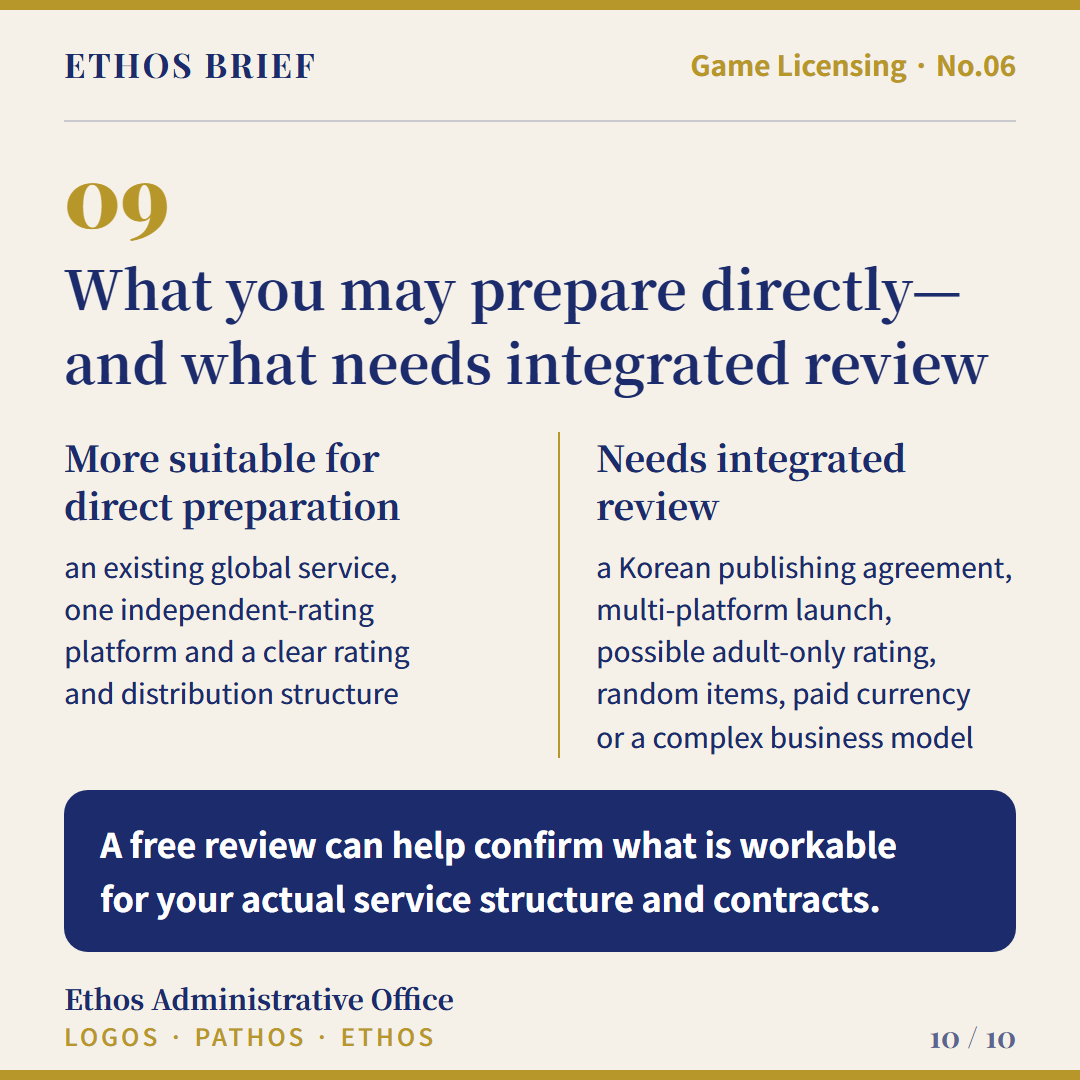
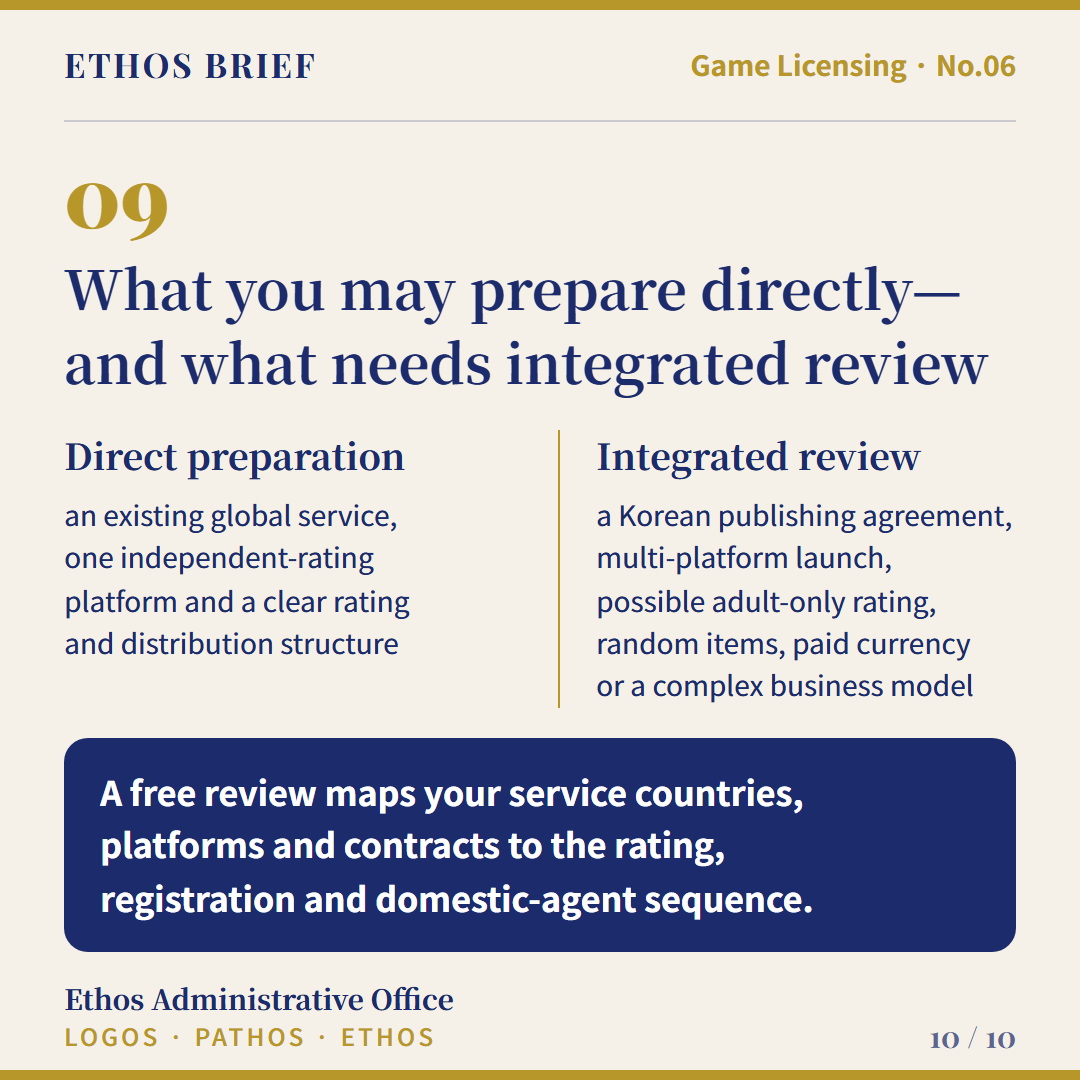
feat: add advisory marketing review workflow

Changed region(s): [[0.0611, 0.3972, 0.9472, 0.8556]]

diff --git a/content/GAME-OVERSEAS-06/en/card_10.html b/content/GAME-OVERSEAS-06/en/card_10.html
@@ -11,8 +11,8 @@
   <div class="hl" data-frame="line"></div>
   <div class="body">
     <div class="z-title" data-zone="title"><div class="kicker-num" data-decor>09</div><h2 class="h2" data-role="headline">What you may prepare directly—and what needs integrated review</h2></div>
-    <div class="z-main" data-zone="main"><div class="split"><div class="split-col"><div class="split-title" data-role="subheading">More suitable for direct preparation</div><div class="split-copy">an existing global service, one independent-rating platform and a clear rating and distribution structure</div></div><div class="split-col"><div class="split-title" data-role="subheading">Needs integrated review</div><div class="split-copy">a Korean publishing agreement, multi-platform launch, possible adult-only rating, random items, paid currency or a complex business model</div></div></div></div>
-    <div class="z-take" data-zone="take"><div class="take" data-role="takeaway">A free review can help confirm what is workable for your actual service structure and contracts.</div></div>
+    <div class="z-main" data-zone="main"><div class="split"><div class="split-col"><div class="split-title" data-role="subheading">Direct preparation</div><div class="split-copy">an existing global service, one independent-rating platform and a clear rating and distribution structure</div></div><div class="split-col"><div class="split-title" data-role="subheading">Integrated review</div><div class="split-copy">a Korean publishing agreement, multi-platform launch, possible adult-only rating, random items, paid currency or a complex business model</div></div></div></div>
+    <div class="z-take" data-zone="take"><div class="take" data-role="takeaway">A free review maps your service countries, platforms and contracts to the rating, registration and domestic-agent sequence.</div></div>
   </div>
   
   <div class="ftr"><div class="org" data-frame="org">Ethos Administrative Office</div><div class="tagl" data-frame="tagline">LOGOS · PATHOS · ETHOS</div><div class="pg" data-frame="page">10 / 10</div></div>

diff --git a/content/GAME-OVERSEAS-06/ko/card_10.html b/content/GAME-OVERSEAS-06/ko/card_10.html
@@ -12,7 +12,7 @@
   <div class="body">
     <div class="z-title" data-zone="title"><div class="kicker-num" data-decor>09</div><h2 class="h2" data-role="headline">직접 준비할 수 있는 경우, 함께 검토해야 하는 경우</h2></div>
     <div class="z-main" data-zone="main"><div class="split"><div class="split-col"><div class="split-title" data-role="subheading">직접 준비 가능성이 높은 경우</div><div class="split-copy">기존 글로벌 서비스, 하나의 자체등급분류 플랫폼, 명확한 등급·유통 구조</div></div><div class="split-col"><div class="split-title" data-role="subheading">종합 검토가 필요한 경우</div><div class="split-copy">국내 퍼블리셔 계약, 여러 플랫폼 동시 출시, 청소년이용불가 가능성, 확률형 아이템·유료재화·복잡한 BM</div></div></div></div>
-    <div class="z-take" data-zone="take"><div class="take" data-role="takeaway">무료 검토를 통해 실제 서비스 구조와 계약관계에서 가능한 방식을 확인할 수 있습니다.</div></div>
+    <div class="z-take" data-zone="take"><div class="take" data-role="takeaway">무료 검토에서는 서비스 국가·플랫폼·계약 구조를 바탕으로 등급분류·배급업 등록·국내대리인 검토 순서를 확인합니다.</div></div>
   </div>
   
   <div class="ftr"><div class="org" data-frame="org">에토스 행정사사무소</div><div class="tagl" data-frame="tagline">LOGOS · PATHOS · ETHOS</div><div class="pg" data-frame="page">10 / 10</div></div>

diff --git a/content/GAME-OVERSEAS-06/ko/card_01.html b/content/GAME-OVERSEAS-06/ko/card_01.html
@@ -11,7 +11,7 @@
   <div class="hl" data-frame="line"></div>
   <div class="body">
     <div class="z-title" data-zone="title"><span class="chip">해외 게임 한국 출시</span></div>
-    <div class="z-main" data-zone="main"><div><p class="cover-title" data-role="headline">서버는 싱가포르, 한국 법인은 없음. 한국 출시 절차는 누가 밟을까요?</p><p class="cover-lead">게임의 국적보다 누가 한국에서 배급하고 이용자에게 제공하는지가 중요합니다.</p></div></div>
+    <div class="z-main" data-zone="main"><div><p class="cover-title" data-role="headline">서버는 싱가포르, 한국 법인은 없습니다. 한국 출시는 누가 책임질까요?</p><p class="cover-lead">게임의 국적보다 누가 한국에서 배급하고 이용자에게 제공하는지가 중요합니다.</p></div></div>
     <div class="z-take" data-zone="take"><div class="take" data-role="takeaway">먼저 서비스 구조를 정해야 절차의 주체도 보입니다.</div></div>
   </div>
   <div class="page-turn" data-role="note">다음 · 서버만 보고 결론 내릴 수 없는 이유</div>

diff --git a/content/GAME-OVERSEAS-06/en/card_01.html b/content/GAME-OVERSEAS-06/en/card_01.html
@@ -11,7 +11,7 @@
   <div class="hl" data-frame="line"></div>
   <div class="body">
     <div class="z-title" data-zone="title"><span class="chip">Overseas Game Launch</span></div>
-    <div class="z-main" data-zone="main"><div><p class="cover-title" data-role="headline">The server is in Singapore. There is no Korean entity. Who handles the Korean launch?</p><p class="cover-lead">What matters is who distributes the game and provides it to users in Korea.</p></div></div>
+    <div class="z-main" data-zone="main"><div><p class="cover-title" data-role="headline">Singapore server. No Korean entity. Who is responsible for the Korean launch?</p><p class="cover-lead">What matters is who distributes the game and provides it to users in Korea.</p></div></div>
     <div class="z-take" data-zone="take"><div class="take" data-role="takeaway">Set the service structure first. The responsible parties follow from it.</div></div>
   </div>
   <div class="page-turn" data-role="note">NEXT · Why an overseas server does not end the analysis</div>

diff --git a/scripts/marketing_review.py b/scripts/marketing_review.py
@@ -1,0 +1,120 @@
+#!/usr/bin/env python3
+"""Advisory marketing review for a bilingual ETHOS carousel."""
+
+import argparse
+import json
+import pathlib
+import re
+
+
+def load(path):
+    return json.loads(path.read_text(encoding="utf-8"))
+
+
+def compact_len(value):
+    return len(re.sub(r"\s+", "", value or ""))
+
+
+def contains_any(text, values):
+    folded = (text or "").casefold()
+    return any(str(value).casefold() in folded for value in values if value)
+
+
+def review(data):
+    lang = data.get("language", "")
+    cards = data.get("cards", [])
+    cover = cards[0] if cards else {}
+    final = cards[-1] if cards else {}
+    marketing = data.get("marketing", {})
+    notes, scores = [], {}
+
+    hook = 4 if cover.get("headline") else 0
+    limit = 42 if lang == "ko" else 80
+    if compact_len(cover.get("headline")) <= limit:
+        hook += 6
+    else:
+        notes.append(f"{lang}: 표지 헤드라인을 {limit}자 안팎에서 다시 검토")
+    if any(mark in cover.get("headline", "") for mark in ("?", "？", ":", "—")):
+        hook += 4
+    else:
+        notes.append(f"{lang}: 표지에 질문·대비·구체 상황 중 하나를 더 선명하게")
+    hook += 3 if marketing.get("coverIntent") else 0
+    hook += 3 if marketing.get("targetReader") else 0
+    scores["hook"] = hook
+
+    traced = sum(bool(card.get("sourceTrace", {}).get("heading")) for card in cards)
+    trust = 8 if cards and traced == len(cards) else 4 if traced else 0
+    trust += 4 if any(card.get("sourceTrace", {}).get("evidence") == "F" for card in cards) else 0
+    trust += 4 if any(card.get("type") == "quote" for card in cards) else 0
+    all_text = " ".join(str(card) for card in cards)
+    hype = ["무조건", "충격", "100%", "최고", "guaranteed", "must know"]
+    if not contains_any(all_text, hype):
+        trust += 4
+    else:
+        notes.append(f"{lang}: 과장 표현이 신뢰를 깎지 않는지 확인")
+    scores["trust"] = trust
+
+    types = [card.get("type") for card in cards]
+    readability = 5 if len(set(types)) >= 4 else 0
+    readability += 5 if "checklist" in types and "process" in types else 0
+    readability += 5 if all(len(card.get("body", [])) <= 6 for card in cards) else 0
+    text_limit = 180 if lang == "ko" else 420
+    longest = max((compact_len(card.get("headline", "") + "".join(card.get("body", [])) + card.get("takeaway", "")) for card in cards), default=0)
+    if longest <= text_limit:
+        readability += 5
+    else:
+        notes.append(f"{lang}: 가장 긴 카드 {longest}자 — 축소 시트에서만 최종 판단")
+    scores["readability"] = readability
+
+    save = 6 if "checklist" in types else 0
+    save += 6 if "process" in types else 0
+    save += 4 if marketing.get("saveValue") else 0
+    save += 4 if len(final.get("body", [])) >= 2 else 0
+    scores["save"] = save
+
+    conversion = 4 if final.get("type") == "cta" else 0
+    inputs = marketing.get("ctaInputs", [])
+    outcomes = marketing.get("ctaOutcomes", [])
+    conversion += 5 if len(inputs) >= 2 else 0
+    conversion += 5 if outcomes else 0
+    cta_text = " ".join(final.get("body", []) + [final.get("takeaway", "")])
+    if contains_any(cta_text, inputs) and contains_any(cta_text, outcomes):
+        conversion += 6
+    else:
+        notes.append(f"{lang}: 마지막 CTA에 실제로 받을 자료와 확인 결과를 한 번씩 명시")
+    scores["conversion"] = conversion
+    return scores, notes
+
+
+def main():
+    parser = argparse.ArgumentParser()
+    parser.add_argument("content_dir", help="content/<ID> directory")
+    parser.add_argument("--out", help="default: content/<ID>/marketing-report.md")
+    args = parser.parse_args()
+    folder = pathlib.Path(args.content_dir)
+    reports = []
+    for lang in ("ko", "en"):
+        path = folder / f"card-data.{lang}.json"
+        if not path.exists():
+            raise SystemExit(f"missing: {path}")
+        scores, notes = review(load(path))
+        reports.append((lang, sum(scores.values()), scores, notes))
+
+    average = round(sum(item[1] for item in reports) / len(reports))
+    lines = ["# Marketing Review", "", f"종합 권고 점수: **{average}/100**", "",
+             "> 발행을 막지 않는 편집 보조 지표다. 실제 성과 데이터로 조정한다.", "",
+             "| 언어 | 훅 | 신뢰 | 가독성 | 저장가치 | 전환 | 합계 |",
+             "|---|---:|---:|---:|---:|---:|---:|"]
+    for lang, total, scores, _ in reports:
+        lines.append(f"| {lang} | {scores['hook']} | {scores['trust']} | {scores['readability']} | {scores['save']} | {scores['conversion']} | {total} |")
+    all_notes = [note for _, _, _, notes in reports for note in notes]
+    lines += ["", "## 권고"] + ([f"- {note}" for note in all_notes] if all_notes else ["- 추가 권고 없음"])
+    lines += ["", "## 사람이 확인할 것", "- 표지가 2초 안에 대상과 문제를 전달하는가", "- 체크리스트·프로세스가 실제로 저장할 가치가 있는가", "- CTA의 입력자료와 제공 결과가 실제 서비스 범위와 일치하는가", "- 점수를 올리느라 법률 요건이나 예외를 삭제하지 않았는가", ""]
+    out = pathlib.Path(args.out) if args.out else folder / "marketing-report.md"
+    out.write_text("\n".join(lines), encoding="utf-8")
+    print(f"marketing review: {average}/100 -> {out}")
+    return 0
+
+
+if __name__ == "__main__":
+    raise SystemExit(main())

diff --git a/tests/test_workflow.py b/tests/test_workflow.py
@@ -33,6 +33,30 @@ class WorkflowTests(unittest.TestCase):
                 capture_output=True, text=True)
             self.assertEqual(result.returncode, 0, result.stdout + result.stderr)
 
+    def test_marketing_review_is_advisory(self):
+        cards = []
+        for page in range(1, 7):
+            cards.append({
+                "page": page,
+                "type": "cover" if page == 1 else "concept",
+                "headline": f"headline {page}",
+                "body": ["body"],
+                "takeaway": "takeaway",
+                "sourceTrace": {"heading": "Source A", "evidence": "F"},
+            })
+        with tempfile.TemporaryDirectory() as tmp:
+            folder = pathlib.Path(tmp)
+            for language in ("ko", "en"):
+                item = {"language": language, "cards": cards}
+                (folder / f"card-data.{language}.json").write_text(
+                    json.dumps(item, ensure_ascii=False), encoding="utf-8")
+            result = subprocess.run(
+                [sys.executable, str(ROOT / "scripts" / "marketing_review.py"), str(folder)],
+                capture_output=True, text=True)
+            self.assertEqual(result.returncode, 0, result.stdout + result.stderr)
+            report = (folder / "marketing-report.md").read_text(encoding="utf-8")
+            self.assertIn("발행을 막지 않는 편집 보조 지표", report)
+
 
 if __name__ == "__main__":
     unittest.main()

diff --git a/content/GAME-OVERSEAS-06/brief.md b/content/GAME-OVERSEAS-06/brief.md
@@ -12,9 +12,18 @@ SERIES LABEL / No.: 게임 인허가 · No.06 / Game Licensing · No.06
 CANVAS: square 540×540
 CARD COUNT: 10
 
+## Marketing intent
+
+- TARGET READER IN ONE LINE: 한국 출시를 준비하는 해외 게임사와 국내 퍼블리셔
+- COVER INTENT: 싱가포르 서버와 한국 법인 부재라는 구체 상황에서 책임 주체를 질문한다.
+- SAVE VALUE: 한국 출시 구조를 정리하는 여섯 질문과 국내대리인 지정 기준
+- CTA INPUTS: 서비스 국가, 플랫폼, 계약 구조
+- CTA OUTCOMES: 등급분류, 배급업 등록, 국내대리인 검토 순서
+- DISTRIBUTION AUDIENCE LINE: 한국 출시를 준비하는 해외 게임사·퍼블리셔를 위한 점검 자료
+
 ## Hook
 
-- A: 서버는 싱가포르, 한국 법인은 없음. 한국 출시 절차는 누가 밟을까요?
+- A: 서버는 싱가포르, 한국 법인은 없습니다. 한국 출시는 누가 책임질까요?
 - B: 해외 게임의 한국 출시, 게임 국적보다 먼저 볼 것이 있습니다.
 - C: 국내대리인만 지정하면 한국 출시 준비가 끝날까요?
 - SELECTED / WHY: A. 원문의 실제 상황과 핵심 질문을 첫 장에서 함께 보여주며, 과장 없이 다음 장을 읽을 이유를 만든다.
@@ -23,7 +32,7 @@ CARD COUNT: 10
 
 | # | type | oneMessage | headline | 원문 위치 | 근거유형 | page-turn |
 |---|---|---|---|---|---|---|
-| 1 | cover | 서버 위치보다 한국 서비스 구조가 중요하다 | 서버는 싱가포르, 한국 법인은 없음. 한국 출시 절차는 누가 밟을까요? | 서론 | I | 서버만 보고 결론 낼 수 없는 이유 |
+| 1 | cover | 서버 위치보다 한국 서비스 구조가 중요하다 | 서버는 싱가포르, 한국 법인은 없습니다. 한국 출시는 누가 책임질까요? | 서론 | I | 서버만 보고 결론 낼 수 없는 이유 |
 | 2 | quote | 해외 서버만으로 등급분류 검토가 사라지지 않는다 | 서버가 해외면 한국 등급분류도 없을까요? | 1절 | F | 먼저 역할을 나눠야 함 |
 | 3 | concept | 네 주체의 법적 역할은 서로 다르다 | 한국 출시 전에 네 주체부터 구분하세요 | 2절 | F | 퍼블리셔가 반드시 필요한지 |
 | 4 | comparison | 해외 개발이라는 사실만으로 특례가 적용되지는 않는다 | 해외 게임이면 국내 퍼블리셔가 없어도 될까요? | 3절 | F | 플랫폼별 등급 문제 |
@@ -35,7 +44,7 @@ CARD COUNT: 10
 | 10 | cta | 직접 준비할 범위와 종합 검토가 필요한 경계를 구분한다 | 직접 준비할 수 있는 경우, 함께 검토해야 하는 경우 | 직접 준비할 수 있는 경우 | I | 무료 검토 안내 |
 
 SYMBOLS REQUESTED: 없음
-CTA FINAL SENTENCE: 무료 검토를 통해 실제 서비스 구조와 계약관계에서 가능한 방식을 확인할 수 있습니다.
+CTA FINAL SENTENCE: 무료 검토에서는 서비스 국가·플랫폼·계약 구조를 바탕으로 등급분류·배급업 등록·국내대리인 검토 순서를 확인합니다.
 AUTHORITY DEMONSTRATE: 조문·판결 읽기
 
 ## Bilingual lock

diff --git a/AGENTS.md b/AGENTS.md
@@ -13,6 +13,7 @@
 6. 아래 명령으로 언어별 렌더를 실행한다.
    - `PYTHON=python PYTHONUTF8=1 python scripts/qa_render.py --html-dir content/<ID>/ko --source content/<ID>/blog.md --out content/<ID>/out/ko`
    - `PYTHON=python PYTHONUTF8=1 python scripts/qa_render.py --html-dir content/<ID>/en --source content/<ID>/blog.md --out content/<ID>/out/en`
+   - `PYTHON=python PYTHONUTF8=1 python scripts/marketing_review.py content/<ID>` — 마케팅 점수는 권고이며 렌더를 막지 않는다.
 7. 실패하면 **카드(카피·레이아웃)를 고친다.** `gates.json`, `brand/`, `fonts/` 는 수정 금지.
 8. 통과하면 `content/<ID>/distribution.md`를 작성한다. 카드 밖에서 쓸 국·영문 캡션, Hook 3종, 자연스러운 CTA, alt text, 성과 기록란을 포함하되 원문에 없는 사실은 추가하지 않는다.
 9. `content/<ID>/out/ko`, `out/en` (png, sheet-270.png, qa-report.md)와 `distribution.md`를 커밋하고, 사람이 확인할 항목을 PR 설명에 적는다.
@@ -49,6 +50,9 @@
 - `pageTurn`은 다음 장에서 이어질 판단을 짧게 예고하며 실제 카드에도 표시한다. 가짜 긴장이나 “다음 장에서 공개”는 쓰지 않는다.
 - Golden Reference처럼 큰 제목, 충분한 여백, 네이비·크림 리듬, 골드의 절제, 카드별 하나의 시각적 중심을 우선한다.
 - QA가 PASS여도 축소 시트가 답답하거나 어색하면 완료가 아니다. 반대로 권고 경고가 있어도 사람이 보기에 자연스럽고 읽기 좋으면 허용한다.
+- 표지는 2초 안에 대상과 문제를 전달하도록 구체 상황·질문·대비 중 하나를 사용하되 클릭베이트를 만들지 않는다.
+- 마지막 CTA에는 실제로 받을 수 있는 자료와 실제로 확인해 줄 결과를 구체적으로 적는다. 원문이나 승인된 서비스 범위를 넘어선 약속은 만들지 않는다.
+- 게시용 캡션 첫 부분에는 대상 독자를 자연스럽게 명시한다. 마케팅 점수를 올리기 위해 법률 요건을 삭제하거나 카드를 빽빽하게 만들지 않는다.
 
 ## 파일 지도
 | 경로 | 역할 | 수정 |
@@ -56,7 +60,7 @@
 | `docs/editorial.md` | 카피·Hook·서사·CTA 규칙 | 사람만 |
 | `docs/html-contract.md` | 카드 HTML 계약 (data-속성) | 사람만 |
 | `brand/tokens.json·css`, `brand/fonts.css`, `fonts/` | 브랜드 값·폰트 | 사람만 |
-| `gates.json`, `scripts/qa_render.py` | 검사 기준·실행기 | 사람만 |
+| `gates.json`, `scripts/qa_render.py`, `scripts/marketing_review.py` | 무결성 게이트와 비차단 마케팅 점검 | 사람만 |
 | `templates/` | 프레임·카드 유형 CSS·스켈레톤 | 새 유형은 `card-types.css` 에만 추가 |
 | `examples/` | 통과하는 예시(good)와 실패하는 예시(bad) | 참고용 |
 | `references/` | v3.3 참고 지침·승인 Golden Reference·manifest | 사람만 |

diff --git a/content/GAME-OVERSEAS-06/distribution.md b/content/GAME-OVERSEAS-06/distribution.md
@@ -4,6 +4,8 @@
 
 ### Caption
 
+한국 출시를 준비하는 해외 게임사·퍼블리셔를 위한 점검 자료입니다.
+
 서버는 싱가포르에 있고 한국 법인은 없습니다. 그렇다면 한국 출시 절차는 누가 맡아야 할까요?
 
 해외 게임의 한국 출시에서는 게임의 국적보다 실제 서비스 구조가 중요합니다. 해외 개발사, 국내 퍼블리셔, 자체등급분류사업자, 국내대리인의 역할을 나누고 배급·제공·등급·등록·출시 후 의무를 차례로 확인해야 합니다.
@@ -18,7 +20,7 @@
 
 ### CTA
 
-무료 검토를 통해 실제 서비스 구조와 계약관계에서 가능한 방식을 확인할 수 있습니다.
+무료 검토에서는 서비스 국가·플랫폼·계약 구조를 바탕으로 등급분류·배급업 등록·국내대리인 검토 순서를 확인합니다.
 
 ### Alt text
 
@@ -27,6 +29,8 @@
 ## English
 
 ### Caption
+
+For overseas game companies and Korean publishers preparing a Korean launch.
 
 The server is in Singapore and there is no Korean entity. Who, then, handles the Korean launch?
 
@@ -42,7 +46,7 @@ This carousel closes with six questions to answer before launch. The specific ro
 
 ### CTA
 
-A free review can help confirm what is workable for your actual service structure and contracts.
+A free review maps your service countries, platforms and contracts to the rating, registration and domestic-agent sequence.
 
 ### Alt text
 

diff --git a/content/GAME-OVERSEAS-06/out/en/qa-report.md b/content/GAME-OVERSEAS-06/out/en/qa-report.md
@@ -4,7 +4,7 @@
 
 | 카드 | 유형 | 글자수 | 본문 채움 | 하단 여백 | 결과 |
 |---|---|---|---|---|---|
-| card_01.html | cover | 258 | 0.89 | 2 | PASS |
+| card_01.html | cover | 253 | 0.74 | 2 | PASS |
 | card_02.html | quote | 426 | 0.89 | 2 | PASS |
 | card_03.html | concept | 375 | 0.85 | 2 | PASS |
 | card_04.html | comparison | 376 | 0.72 | 2 | PASS |
@@ -13,11 +13,10 @@
 | card_07.html | comparison | 322 | 0.89 | 2 | PASS |
 | card_08.html | checklist | 375 | 0.79 | 2 | PASS |
 | card_09.html | process | 343 | 0.64 | -13 | PASS |
-| card_10.html | cta | 402 | 0.83 | 14 | PASS |
+| card_10.html | cta | 408 | 0.82 | 14 | PASS |
 
 ### card_01.html 권고
-- chars 258 > 권장 180 (가독성 확인)
-- headline-lines 4 > 권장 3: 'The server is '
+- chars 253 > 권장 180 (가독성 확인)
 
 ### card_02.html 권고
 - chars 426 > 권장 180 (가독성 확인)
@@ -54,7 +53,7 @@
 - headline-chars 46 > 권장 34
 
 ### card_10.html 권고
-- chars 402 > 권장 180 (가독성 확인)
+- chars 408 > 권장 180 (가독성 확인)
 - headline-chars 54 > 권장 34
 - paragraph-lines 5 > 권장 4: 'a Korean publi'
 

diff --git a/README.md b/README.md
@@ -28,9 +28,10 @@ tests/run_gate_tests.sh    게이트 회귀 테스트
 ```bash
 PYTHON=python PYTHONUTF8=1 python scripts/new_content.py --id GAME-2026-01 --source blog.md
 PYTHON=python PYTHONUTF8=1 python scripts/validate_bilingual.py content/GAME-2026-01
+PYTHON=python PYTHONUTF8=1 python scripts/marketing_review.py content/GAME-2026-01
 ```
 
-미감 관련 수치는 렌더를 막는 절대 규칙이 아니라 권고다. `docs/layout-playbook.md`와 Golden Reference를 기준으로 구도를 고르고, 사실·폰트·프레임·오버플로 같은 무결성 검사는 하드 게이트로 유지한다.
+미감과 마케팅 점수는 렌더를 막는 절대 규칙이 아니라 권고다. `docs/layout-playbook.md`와 Golden Reference를 기준으로 구도를 고르고, 사실·폰트·프레임·오버플로 같은 무결성 검사만 하드 게이트로 유지한다.
 
 ## 오픈소스 구성
 

diff --git a/content/GAME-OVERSEAS-06/out/ko/qa-report.md b/content/GAME-OVERSEAS-06/out/ko/qa-report.md
@@ -4,7 +4,7 @@
 
 | 카드 | 유형 | 글자수 | 본문 채움 | 하단 여백 | 결과 |
 |---|---|---|---|---|---|
-| card_01.html | cover | 111 | 0.82 | 2 | PASS |
+| card_01.html | cover | 112 | 0.82 | 2 | PASS |
 | card_02.html | quote | 170 | 0.71 | 2 | PASS |
 | card_03.html | concept | 144 | 0.72 | 2 | PASS |
 | card_04.html | comparison | 152 | 0.49 | 2 | PASS |
@@ -13,7 +13,7 @@
 | card_07.html | comparison | 129 | 0.45 | 2 | PASS |
 | card_08.html | checklist | 165 | 0.79 | 2 | PASS |
 | card_09.html | process | 143 | 0.58 | 2 | PASS |
-| card_10.html | cta | 160 | 0.61 | 14 | PASS |
+| card_10.html | cta | 177 | 0.61 | 14 | PASS |
 
 ### card_06.html 권고
 - main-fill 0.37 < 권장 0.4 (여백이 의도적인지 시각 확인)
